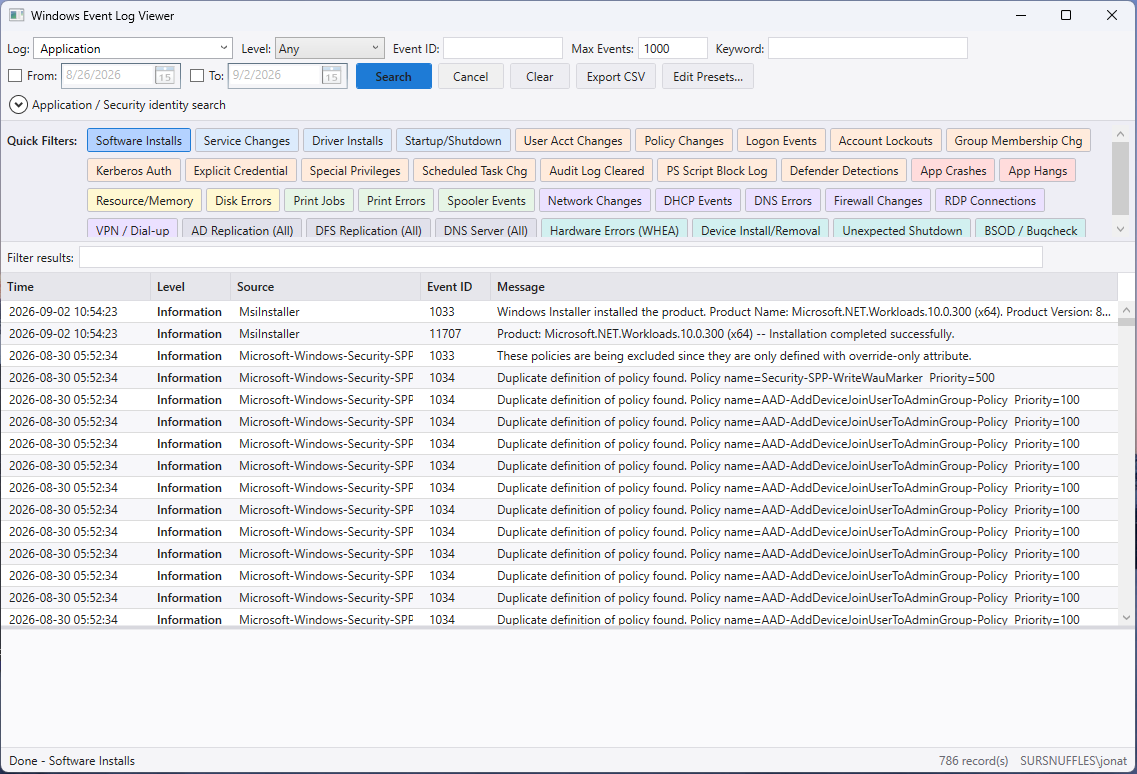
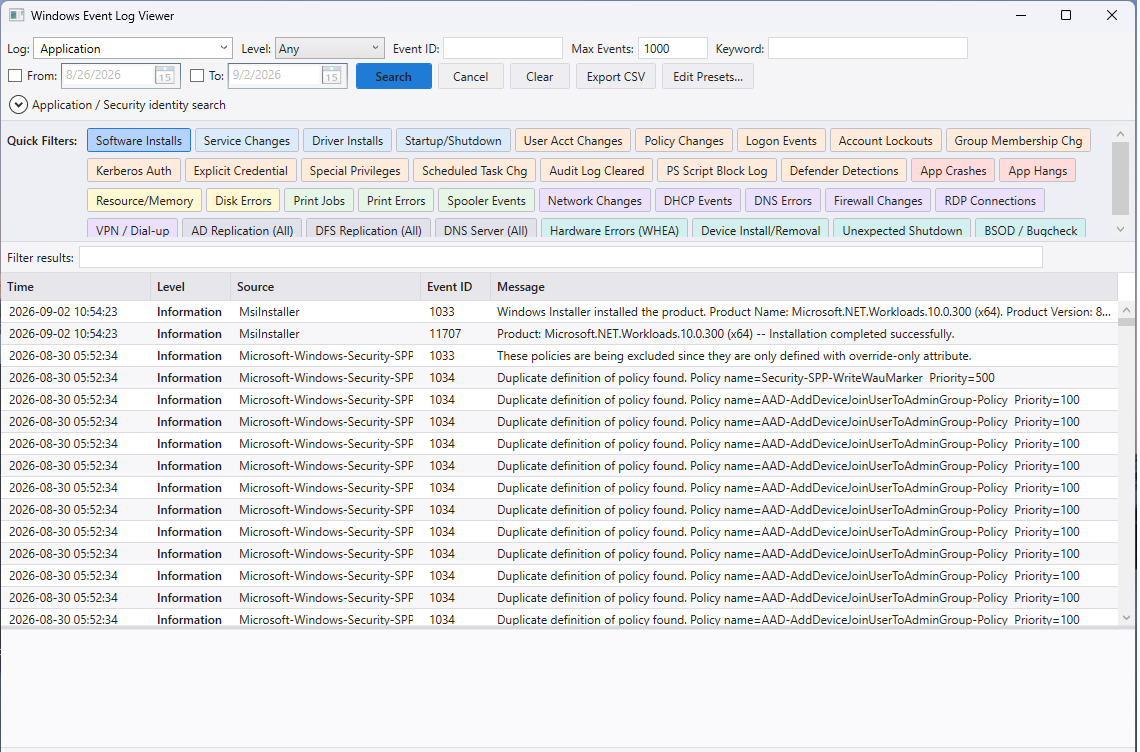
Crop the hostname out of the main window screenshot
The status bar reports the detected host mode as MACHINE\user, which is not
something to publish on a public repo. Recropped without it.

The capture checklist previously asked for a status bar showing a record count,
which would have reintroduced it on any re-shoot - it now says to crop the
status bar, and the data-safety note calls out the status bar as a second leak
alongside the event messages themselves.

diff --git a/docs/images/README.md b/docs/images/README.md
@@ -10,7 +10,7 @@ leaving them dangling.
 
 | Filename | Where it appears | What should be visible |
 |---|---|---|
-| `main-window.png` | Top of the README | The whole window after a search that returned rows: filter panel, Quick Filters strip, populated results grid, a selected row with its message in the detail pane, and the status bar showing a record count. |
+| `main-window.png` | Top of the README | The whole window after a search that returned rows: filter panel, Quick Filters strip, populated results grid. **Crop the status bar off**, or at least its right-hand end — it shows the detected host mode as `MACHINE\user`, which you probably do not want on a public repo. |
 | `quick-filters.png` | Start of **Presets** | Just the Quick Filters strip, cropped. The point is the colour-coding by group, so include enough rows to show several different colours. |
 | `preset-editor.png` | **Editing presets in the app** | The editor window overall — preset list on the left with the `built-in` / `custom` labels legible, and a selected preset's fields filled in on the right. |
 | `preset-editor-clauses.png` | Step 2 | The clause area, cropped. Ideally a two-clause preset (`Resource/Memory` or `DNS Errors`) so the multi-log capability is obvious. A clause with providers filled in is better than one without. |
@@ -23,9 +23,10 @@ leaving them dangling.
   need to match a theme.
 - **Crop tightly.** Full-screen shots of a 1150×780 window scale down badly in a README. Everything
   except `main-window.png` should be a crop of the relevant region.
-- **Watch for real data.** The results grid and detail pane will contain real event messages from
-  whatever machine you capture on — usernames, hostnames, IPs, file paths, domain names. Check
-  before committing, especially for anything from the Security log. A lab VM or a fresh install is
-  the safe place to shoot these.
+- **Watch for real data.** Two places leak it. The results grid and detail pane contain real event
+  messages from whatever machine you capture on — usernames, hostnames, IPs, file paths, domain
+  names — and anything from the Security log is worth a careful look. The status bar separately
+  reports the detected host mode as `MACHINE\user`. A lab VM or a fresh install is the safe place
+  to shoot these.
 - **PNG, not JPEG.** UI text goes blurry under JPEG compression.
 - Roughly 1000–1400 px wide is plenty; GitHub scales images down to the content column anyway.
